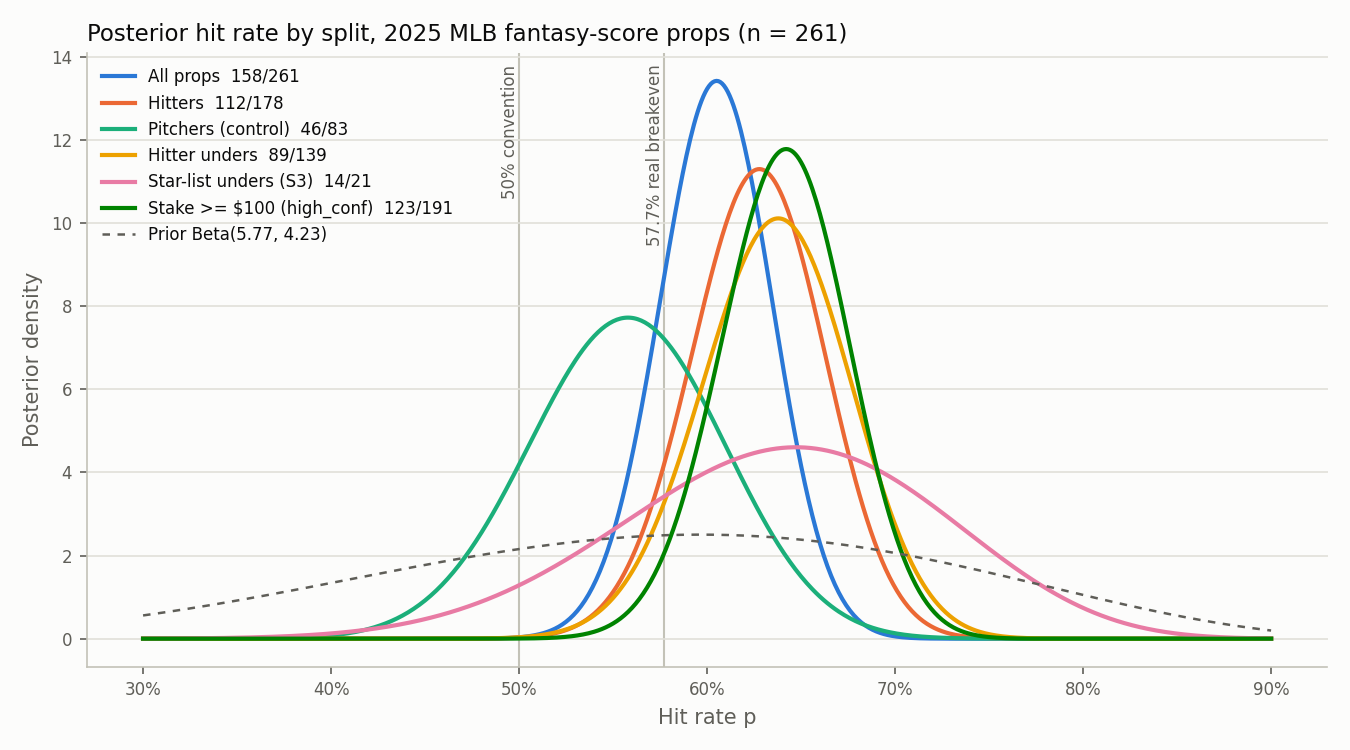
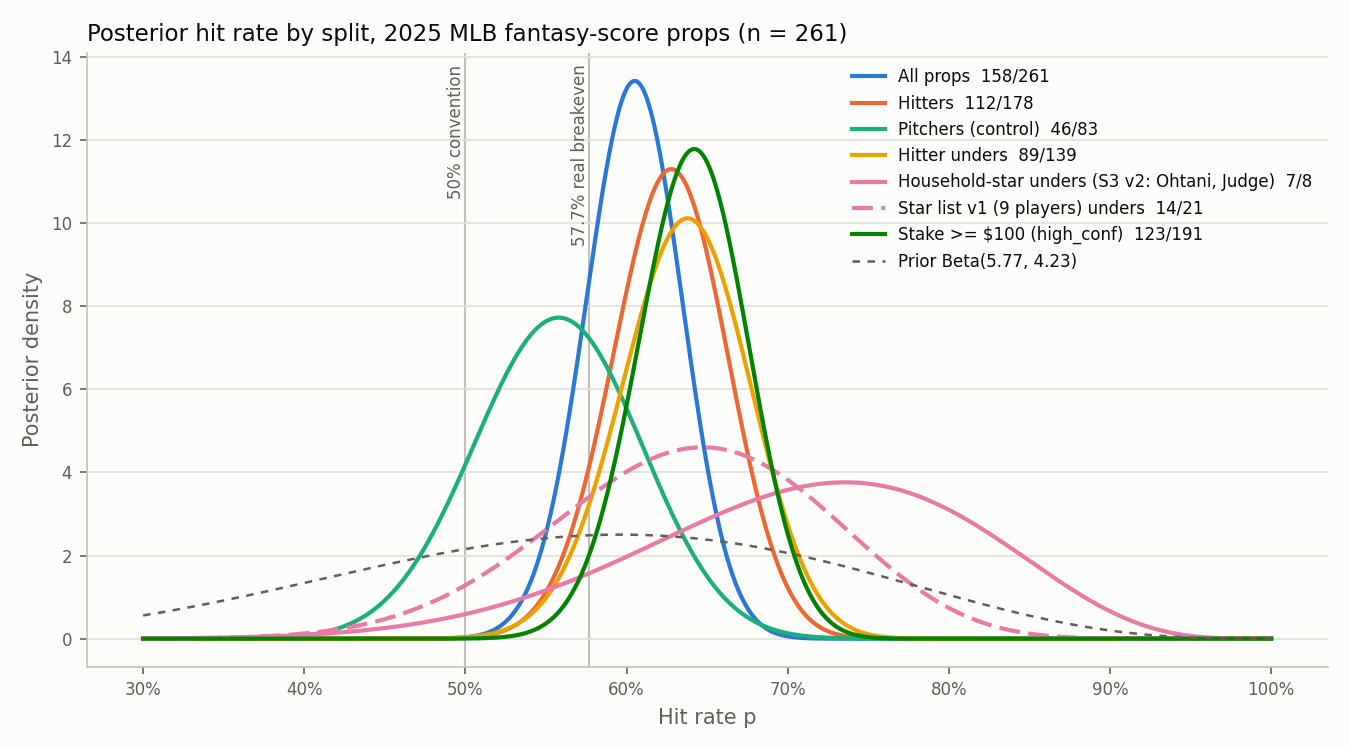
Redefine S3 as household stars (Ohtani, Judge); keep v1 list and results for comparison

diff --git a/analysis/beta_binomial.py b/analysis/beta_binomial.py
@@ -21,6 +21,8 @@ BREAKEVEN_REAL = 0.577   # 3x payout on a 2-pick
 BREAKEVEN_CONV = 0.5     # log convention, odds_or_payout = 2.0
 
 ROOT = Path(__file__).resolve().parents[1]
+sys.path.insert(0, str(ROOT))
+from trapbet.engines.trap import is_star  # noqa: E402
 
 
 def wilson(w, n, z=1.96):
@@ -36,6 +38,11 @@ def wilson(w, n, z=1.96):
 def load(path):
     d = pd.read_csv(path)
     d["role"] = d["notes"].str.extract(r"role=(hitter|pitcher)")[0]
+    # S3_star in the CSV is the v2 (household) definition; derive v1 from names for comparison
+    v2 = d["player"].map(lambda p: int(is_star(p, "v2")))
+    if not (v2 == d["S3_star"]).all():
+        raise ValueError("S3_star column disagrees with trap.STARS; rebuild data/bet_log.csv")
+    d["S3_star_v1"] = d["player"].map(lambda p: int(is_star(p, "v1")))
     return d
 
 
@@ -47,7 +54,8 @@ def splits(d):
         ("Hitters",              hit),
         ("Pitchers (control)",   d["role"] == "pitcher"),
         ("Hitter unders",        hit & under),
-        ("Star-list unders (S3)", (d["S3_star"] == 1) & under),
+        ("Household-star unders (S3 v2: Ohtani, Judge)", (d["S3_star"] == 1) & under),
+        ("Star list v1 (9 players) unders", (d["S3_star_v1"] == 1) & under),
         ("Stake >= $100 (high_conf)", d["high_conf"] == 1),
         # comparison row, table only (not plotted)
         ("Stake < $100", d["high_conf"] == 0),
@@ -96,13 +104,16 @@ def plot(t, out):
     colors = ["#2a78d6", "#eb6834", "#1baf7a", "#eda100", "#e87ba4", "#008300"]
     surface, ink, ink2, grid, axis = "#fcfcfb", "#0b0b0b", "#5f5e58", "#e1e0d9", "#c3c2b7"
 
-    x = np.linspace(0.30, 0.90, 601)
+    x = np.linspace(0.30, 1.00, 701)
     fig, ax = plt.subplots(figsize=(9, 5), dpi=150, facecolor=surface)
     ax.set_facecolor(surface)
-    plotted = t.iloc[:6]  # the six primary splits; the stake < $100 comparison row is table-only
-    for (r, c) in zip(plotted.itertuples(), colors):
+    plotted = t.iloc[:7]  # the six primary splits plus the v1 star list; stake < $100 is table-only
+    # v1 star list is the same entity under an older definition: same hue as v2, dashed
+    styles = [(colors[0], "-"), (colors[1], "-"), (colors[2], "-"), (colors[3], "-"),
+              (colors[4], "-"), (colors[4], (0, (5, 2))), (colors[5], "-")]
+    for r, (c, ls) in zip(plotted.itertuples(), styles):
         y = stats.beta(r.a, r.b).pdf(x)
-        ax.plot(x, y, color=c, lw=2, label=f"{r.split}  {r.wins}/{r.n}")
+        ax.plot(x, y, color=c, lw=2, ls=ls, label=f"{r.split}  {r.wins}/{r.n}")
     prior = stats.beta(PRIOR_A, PRIOR_B).pdf(x)
     ax.plot(x, prior, color=ink2, lw=1.2, ls=(0, (3, 3)), label="Prior Beta(5.77, 4.23)")
     for v, lab in ((BREAKEVEN_CONV, "50% convention"), (BREAKEVEN_REAL, "57.7% real breakeven")):
@@ -120,7 +131,7 @@ def plot(t, out):
     for s in ("left", "bottom"):
         ax.spines[s].set_color(axis)
     ax.tick_params(colors=ink2, labelsize=8)
-    ax.legend(frameon=False, fontsize=8, labelcolor=ink, loc="upper left")
+    ax.legend(frameon=False, fontsize=8, labelcolor=ink, loc="upper right")
     fig.tight_layout()
     fig.savefig(out, facecolor=surface)
     return out

diff --git a/trapbet/engines/trap.py b/trapbet/engines/trap.py
@@ -9,7 +9,10 @@ platform scale as `line`; `other_platform_line_converted` is already converted t
 Signal definitions (from the project brief):
   S1 streak: all five of last5 on the same side of the line.
   S2 popular: popularity_rank <= 25.
-  S3 star: player on the star list.
+  S3 star: player is a household name (STARS, v2: Ohtani, Judge). Rationale: the mechanism is
+     casual-bettor popularity inflating DFS lines, and casual bettors know household names, not
+     baseball-fan names. The v1 list (STARS_V1, nine players) mixed household names with players
+     only fans follow; it is kept for comparison and reported alongside v2 in RESULTS.md.
   S4 cross-platform: |line - other platform line converted| >= 1.0.
   S5 fair gap: line - fair_fs >= 1.0 (lean under) or <= -1.0 (lean over).
   S6 matchup: opposing SP top quartile (lean under) or bottom quartile (lean over),
@@ -18,6 +21,8 @@ Signal definitions (from the project brief):
 """
 from __future__ import annotations
 
+import re
+import unicodedata
 from dataclasses import dataclass, field
 from typing import Optional, Sequence
 
@@ -25,6 +30,27 @@ GAP_THRESHOLD = 1.0
 POPULAR_RANK = 25
 SIGNAL_NAMES = ("S1", "S2", "S3", "S4", "S5", "S6", "S7")
 S5_WEIGHT = 2
+
+# S3 star list, v2 (2026-11-02): household names only. Matched as lowercase ASCII substrings of
+# the player's name, so "judge" matches "Aaron Judge" and "acuna" matches "Ronald Acuña Jr.".
+STARS = frozenset({"ohtani", "judge"})
+# v1 definition 2026-10-29; superseded 2026-11-02, see RESULTS.md ("Definition changes").
+STARS_V1 = frozenset({"ohtani", "judge", "soto", "harper", "betts", "acuna", "guerrero",
+                      "tatis", "ramirez"})
+STAR_LISTS = {"v2": STARS, "v1": STARS_V1}
+
+
+def _norm(name: str) -> str:
+    s = unicodedata.normalize("NFKD", name).encode("ascii", "ignore").decode().lower()
+    return re.sub(r"\s+", " ", s).strip()
+
+
+def is_star(player: str, version: str = "v2") -> bool:
+    """True if `player` matches the S3 star list for `version` ("v2" default, or "v1")."""
+    if version not in STAR_LISTS:
+        raise ValueError(f"unknown star-list version {version!r}; use 'v2' or 'v1'")
+    n = _norm(player)
+    return any(s in n for s in STAR_LISTS[version])
 
 
 @dataclass

diff --git a/build_log.py b/build_log.py
@@ -1,6 +1,8 @@
 import re, csv, sys, unicodedata
 sys.stdout.reconfigure(encoding="utf-8", errors="replace")  # notes contain emoji; Windows console defaults to cp1252
-STARS={'ohtani','judge','soto','harper','betts','acuna','guerrero','tatis','ramirez'}
+# S3 star list lives in trapbet/engines/trap.py: STARS = {ohtani, judge} (v2, 2026-11-02);
+# STARS_V1 = the nine-player v1 definition 2026-10-29; superseded 2026-11-02, see RESULTS.md.
+from trapbet.engines.trap import STARS, STARS_V1, is_star  # noqa: F401  (run from the repo root)
 PITCHERS={'yamamoto','peterson','eflin','wheeler','holmes','schwellenbach','olson','brown','steele','gilbert','wacha','williams','pivetta','nola','degrom','sanchez','lugo','gray','springs','senga','flaherty','alcantara','blanco','rodon','kikuchi','mahle','skubal','miller','bieber','peralta','woo','strider','bibee','cabrera','manaea','corbin','cantillo','patrick','warren','fried','gallen','meyer','may','burnes','ragans','roupp','ortiz','sale','ryan','quintana','misiorowski','keller','rodriguez','abbott','falter','canning','kirby','estes','gil','lodolo','parker','vasquez','ray','imanaga','glasnow','melton','rogers','littell','schmidt','castillo'}
 # Matt Olson / Reese Olson, Hunter Brown / Ben Brown, Gavin Williams, Julio/Eduardo Rodriguez, Dustin May need first-name disambiguation
 HITTER_OVERRIDES={'matt olson','julio rodriguez','ben brown'}  # ben brown IS a pitcher; handled below
@@ -15,7 +17,7 @@ def role(name):
     if last in PITCHERS: return 'pitcher'
     return 'hitter'
 def star(name):
-    return 1 if any(s in norm(name) for s in STARS) else 0
+    return 1 if is_star(name, 'v2') else 0
 
 # ---- screenshot rows: (date, player, side, line, platform, result, note) ----
 # platform codes: prizepicks (Hitter/Pitcher Fantasy Score), underdog (Fantasy Points O/U Higher/Lower),

diff --git a/analysis/make_figures.py b/analysis/make_figures.py
@@ -74,7 +74,8 @@ def split_masks(d: pd.DataFrame) -> list[tuple[str, pd.Series]]:
         ("Pitchers (control)", d["role"] == "pitcher"),
         ("Hitter unders", hit & under),
         ("Hitter overs", hit & (d["side"] == "over")),
-        ("Star-list unders", (d["S3_star"] == 1) & under),
+        ("Household-star unders\n(S3 v2: Ohtani, Judge)", (d["S3_star"] == 1) & under),
+        ("Star list v1 unders\n(9 players)", (d["S3_star_v1"] == 1) & under),
         ("Stake ≥ $100", d["high_conf"] == 1),
         ("Stake < $100", d["high_conf"] == 0),
     ]
@@ -87,7 +88,7 @@ def fig_by_split(d: pd.DataFrame, out: Path) -> Path:
     err = np.array([[r[3] - r[4] for r in rows], [r[5] - r[3] for r in rows]])
     y = np.arange(len(rows))
 
-    fig, ax = _fig(9, 5)
+    fig, ax = _fig(9, 5.6)
     ax.barh(y, rates, height=0.58, color=SERIES[0], zorder=2)
     ax.errorbar(rates, y, xerr=err, fmt="none", ecolor=INK2, elinewidth=1.2, capsize=3, zorder=3)
     for yi, (name, w, n, r, lo, hi) in zip(y, rows):

diff --git a/tests/test_trap.py b/tests/test_trap.py
@@ -8,6 +8,17 @@ def ctx(**kw):
     return tp.PropContext(**base)
 
 
+def test_star_lists_v2_and_v1():
+    assert tp.STARS == {"ohtani", "judge"}
+    assert tp.STARS < tp.STARS_V1 and len(tp.STARS_V1) == 9
+    assert tp.is_star("Shohei Ohtani") and tp.is_star("Aaron Judge")
+    assert not tp.is_star("Juan Soto") and tp.is_star("Juan Soto", "v1")
+    assert tp.is_star("Ronald Acuña Jr.", "v1") and not tp.is_star("Ronald Acuña Jr.")
+    assert not tp.is_star("Vladimir Guerrero Jr.") and tp.is_star("Vladimir Guerrero Jr.", "v1")
+    with pytest.raises(ValueError):
+        tp.is_star("Aaron Judge", "v3")
+
+
 def test_all_missing_gives_all_none():
     s = tp.signals(ctx())
     assert set(s) == set(tp.SIGNAL_NAMES) and all(v is None for v in s.values())

diff --git a/RESULTS.md b/RESULTS.md
@@ -27,7 +27,8 @@ slip history (80 screenshots, 3/28–5/28) and my manual Pikkit lookup for the r
 | Pitchers (control) | 46/83 | 55.4% | 45%–66% |
 | Hitter unders | 89/139 | 64.0% | 56%–72% |
 | Hitter overs | 23/39 | 59.0% | — |
-| Star-list unders (S3) | 14/21 | 66.7% | 45%–83% |
+| Household stars (S3 v2: Ohtani, Judge) — unders | 7/8 | 87.5% | 53%–98% |
+| Star list v1 (9 players) — unders | 14/21 | 66.7% | 45%–83% |
 | Stake ≥ $100 | 123/191 | 64.4% | 57%–71% |
 | Stake < $100 | 35/70 | 50.0% | 39%–61% |
 | Hitters, ≥$100 vs <$100 | 95/143 vs 17/35 | 66.4% vs 48.6% | — |
@@ -38,13 +39,21 @@ Breakeven: 50% by the 50/50 convention used in the log; 57.7% per leg at real 3x
 
 ![Posterior hit rate by split](figures/beta_binomial_posteriors.png)
 
-*Beta-binomial posteriors with a Beta(5.77, 4.23) prior centred on the 57.7% breakeven (10 pseudo-observations). P(p > 57.7%): all 261 props 0.82; hitters (n = 178) 0.92; pitchers (n = 83) 0.35; hitter unders (n = 139) 0.93; star-list unders (n = 21) 0.76; stake ≥ $100 (n = 191) 0.97. Splits are nested, not independent. Regenerate with `python analysis/beta_binomial.py`.*
+*Beta-binomial posteriors with a Beta(5.77, 4.23) prior centred on the 57.7% breakeven (10 pseudo-observations). P(p > 57.7%): all 261 props 0.82; hitters (n = 178) 0.92; pitchers (n = 83) 0.35; hitter unders (n = 139) 0.93; household-star unders (S3 v2, n = 8) 0.89; star list v1 unders (n = 21, dashed) 0.76; stake ≥ $100 (n = 191) 0.97. Splits are nested, not independent. Regenerate with `python analysis/beta_binomial.py`.*
 
 By month: 03/25 3/8 (38%) · 04/25 25/33 (76%) · 05/25 31/56 (55%) · 06/25 23/39 (59%) · 07/25 37/60 (62%) · 08/25 19/29 (66%) · 09/25 5/14 (36%) · 10/25 15/22 (68%).
 
 ![Monthly hit rate](figures/hit_rate_by_month.png)
 
 *Monthly hit rate with W/N above each point and Wilson 95% intervals; no smoothing. Three months have n < 15 and intervals wider than 40 points. Regenerate with `python analysis/make_figures.py`.*
+
+## Definition changes
+- **S3 star list, 2026-11-02.** Old (v1, 2026-10-29): Ohtani, Judge, Soto, Harper, Betts, Acuña, Guerrero Jr.,
+  Tatís Jr., Ramírez. New (v2): Ohtani and Judge only. Reason: the mechanism I am testing is casual-bettor
+  popularity inflating DFS lines, and casual bettors know household names, not baseball-fan names; the v1 list
+  mixed the two. This change was made after the backtest results were known; the v1 result is kept here so the
+  effect of the redefinition is visible. Under v2 the star split is 10 props (8 unders, 7 hit); under v1 it was
+  29 props (21 unders, 14 hit). Both lists are in `trapbet/engines/trap.py` (`STARS`, `STARS_V1`).
 
 ## High-stake slips (slip-level, not deduped; screenshot window only)
 42 slips with visible stake ≥ $100. Fantasy legs 43/62 (69.4%). Only 15 slips won: on 8 of 20 mixed
@@ -57,7 +66,8 @@ slips every fantasy leg hit and a non-fantasy partner lost ($1,417 of stake).
 - Floor, not ceiling: the sample is every bet I placed, including action I knew was low-edge.
 - Pitcher control fits the mechanism (component props tightly priced → small relative gap).
 - Sizing: conviction tracked results — 18-point gap on hitters, ~7 on pitchers; low-stake hitter unders ran at a coin flip.
-- Memory check: I remembered "~90% on star unders"; it measured 14/21; Judge 6/7, Ohtani 4/4 (n small; shrink).
+- Memory check: I remembered "~90% on star unders"; it measured 14/21 on the v1 list and 7/8 on the v2 household
+  list; Judge 6/7, Ohtani 4/4 across all their props (n small; shrink).
 
 ## What could NOT be measured historically
 S2 popularity, S4 cross-platform gap, S5 fair-line gap, S7 reverse movement — no line captures exist
@@ -67,5 +77,6 @@ No ROI (exact stakes for 79 rows only).
 ## Known data flags
 LINE_MOVE_FLIP ×2 (Eflin 4/2, Lowe 5/27); BOTH_SIDES ×2 (Schwellenbach 5/8, A. Garcia 5/23);
 DATE_TYPO? ×1 (Bo Naylor 9/17/23 → 2025); stake unreadable on 4 slips (excluded from slip table);
-notes duplicates for Judge & Langford 7/13 kept deliberately (I sometimes mis-dated entries); 7 notes rows
+notes duplicates for Judge & Langford 7/13 kept deliberately (I sometimes mis-dated entries); S3_star column
+reflects the v2 definition (see Definition changes), v1 is derived from names at analysis time; 7 notes rows
 merged into screenshot rows as verifiably the same bet (Lugo 4/25, Gilbert 4/25, Judge 5/4 & 5/5, Schwellenbach 5/8, Tatis 5/10, Ramírez 5/11).

diff --git a/README.md b/README.md
@@ -38,9 +38,13 @@ log convention and the 57.7% two-pick breakeven. Splits overlap; they are not in
 - **Sizing tracked results.** My ≥ $100 tier beat my < $100 tier by 14 points overall
   (123/191 vs 35/70). I set stakes before results were known, but the sample is small and I did not
   pre-register the split.
-- **Signals not yet measured.** Of the seven trap signals, only S3 (star list) is filled for the
-  backtest. S1 (recent streak) and S6 (opposing pitcher) await game-log reconstruction. S2, S4,
+- **Signals not yet measured.** Of the seven trap signals, only S3 (household stars: Ohtani, Judge)
+  is filled for the backtest. S1 (recent streak) and S6 (opposing pitcher) await game-log reconstruction. S2, S4,
   S5 and S7 need line captures that do not exist for 2025.
+- **S3 was redefined after the results were known.** On 2026-11-02 I narrowed the star list from nine
+  players to the two household names, because the mechanism is casual-bettor popularity and casual
+  bettors know Ohtani and Judge, not Soto or Tatís. The v1 numbers are reported alongside v2 in
+  RESULTS.md and the figures so the effect of the redefinition is visible.
 - **The engine is unvalidated.** Its worked example is a regression test against my hand calculation,
   which uses the same devig convention. Passing it shows the arithmetic is reproduced, not that the
   method prices lines correctly. That needs live lines and settled results.
@@ -65,7 +69,7 @@ Full table, Beta-binomial posteriors, monthly rates, how I built the log, and ev
 |---|---|
 | Backtest data (Experiment 1) | **Complete.** `data/bet_log.csv`: 261 MLB fantasy-score props from 2025, all dated, 158/261 hit (60.5%, Wilson 95% CI 54–66%). `data/high_stake_slips.csv`: 42 slips with ≥$100 stake. Both regenerate byte-identically from `build_log.py` / `build_high_stake.py`. |
 | Analysis and figures | **Runs.** `analysis/beta_binomial.py` (Beta(5.77, 4.23) prior; P(p > 57.7%) = 0.82 for all 261 props, 0.35 for the 83-prop pitcher control) and `analysis/make_figures.py` write to `figures/`. |
-| Engines (scoring, devig, fair_line, simulate, trap, sizing) | **Built and unit-tested; worked example reproduces the hand calculation; not yet run on live lines.** `trapbet/engines/`, 61 tests in `tests/`. All four scoring tables verified 2026-11-02. |
+| Engines (scoring, devig, fair_line, simulate, trap, sizing) | **Built and unit-tested; worked example reproduces the hand calculation; not yet run on live lines.** `trapbet/engines/`, 62 tests in `tests/`. All four scoring tables verified 2026-11-02. |
 | S1 / S6 signal reconstruction from game logs | Not started. Next task. |
 | Ingestion (DFS board + book odds snapshotter) | Not started. |
 | Streamlit UI | Not started. |
@@ -78,7 +82,7 @@ python build_log.py                  # data/mlbbets.txt + screenshot rows + data
 python build_high_stake.py           # -> data/high_stake_slips.csv
 python analysis/beta_binomial.py     # posterior table + figures/beta_binomial_posteriors.png
 python analysis/make_figures.py      # figures/hit_rate_by_{split,stake,month}.png
-python -m pytest -q                  # 61 tests
+python -m pytest -q                  # 62 tests
 python examples/ohtani_example.py    # PrizePicks 9.5 from three book markets: fair FS 7.66, P(under) 0.68, 3 units (illustrative inputs)
 ```
 

diff --git a/CLAUDE.md b/CLAUDE.md
@@ -8,10 +8,10 @@ Personal use only. No commercialization. Respect operator ToS. No profit claims 
 - DONE: Experiment 1 data. `data/bet_log.csv` = 261 unique MLB fantasy-score props from the 2025
   season (every bet placed, incl. losses), deduped per player per game-date, voids dropped. ALL 261 DATED.
   158/261 = 60.5% (Wilson 95% CI 54–66%). Hitters 112/178 (62.9%), pitchers 46/83 (55.4%).
-  Hitter unders 89/139 (64.0%). Star-list unders 14/21. ≥$100 stake 123/191 (64.4%) vs <$100 35/70 (50.0%).
+  Hitter unders 89/139 (64.0%). Household-star unders (S3 v2) 7/8; v1 nine-player list 14/21. ≥$100 stake 123/191 (64.4%) vs <$100 35/70 (50.0%).
   Hitters ≥$100 95/143 (66.4%) vs <$100 17/35 (48.6%). S3 filled; S1/S2/S4/S5/S6/S7 blank.
 - DONE: `data/high_stake_slips.csv` — 42 slips with ≥$100 visible stake; fantasy legs 43/62 (69.4%).
-- DONE: Engines built and unit-tested (61 tests), pitcher weights verified 2026-11-02, Ohtani example in window; not yet run on live lines.
+- DONE: Engines built and unit-tested (62 tests), pitcher weights verified 2026-11-02, Ohtani example in window; not yet run on live lines.
   `analysis/beta_binomial.py` runs (posteriors by split + plot). Public repo: https://github.com/andreweyang18/trapbet
 - NOT STARTED: ingest/ (DFS board + book odds snapshotter), Streamlit page, S1/S6 reconstruction script.
 
@@ -26,6 +26,17 @@ Personal use only. No commercialization. Respect operator ToS. No profit claims 
 - Rows tagged `BOTH_SIDES` (Schwellenbach 5/8, A. Garcia 5/23) and `DATE_TYPO?` are flagged, not resolved.
 - Notes-only rows are canonical for result; screenshots are canonical for date/stake/platform.
 - Platform codes: prizepicks, underdog, app_A ("Fantasy Points — Full Game"), app_B (fantasy points with American odds). I still need to map app_A/app_B to ParlayPlay/Boom.
+
+## Trap signal definitions (TRAP_DEFINITION)
+- S1 streak: all five of last5 on the same side of the line. S2 popular: popularity rank ≤ 25.
+- S3 star: household names only — `trap.STARS` = {ohtani, judge} (v2, 2026-11-02). Rationale: the mechanism is
+  casual-bettor popularity inflating DFS lines, and casual bettors know household names, not baseball-fan names.
+  v1 (2026-10-29) was nine players (`trap.STARS_V1`); it mixed household names with players only fans follow.
+  Redefined after backtest results were known; always report v1 alongside v2 (see RESULTS.md).
+- S4 cross-platform: |line − other platform line converted| ≥ 1.0. S5 fair gap: line − fair ≥ 1.0 lean under,
+  ≤ −1.0 lean over (counts double). S6 matchup: opposing SP top quartile lean under / bottom quartile lean over,
+  or platoon disadvantage. S7 reverse move: line moved against the streak side since open.
+- Missing input → None, not 0. Candidate: score ≥ 2 with S5, or score ≥ 3. lean(): S5 → S6 → fade the streak.
 
 ## Rebuild
 `python build_log.py` regenerates data/bet_log.csv from data/mlbbets.txt (notes), the screenshot rows
